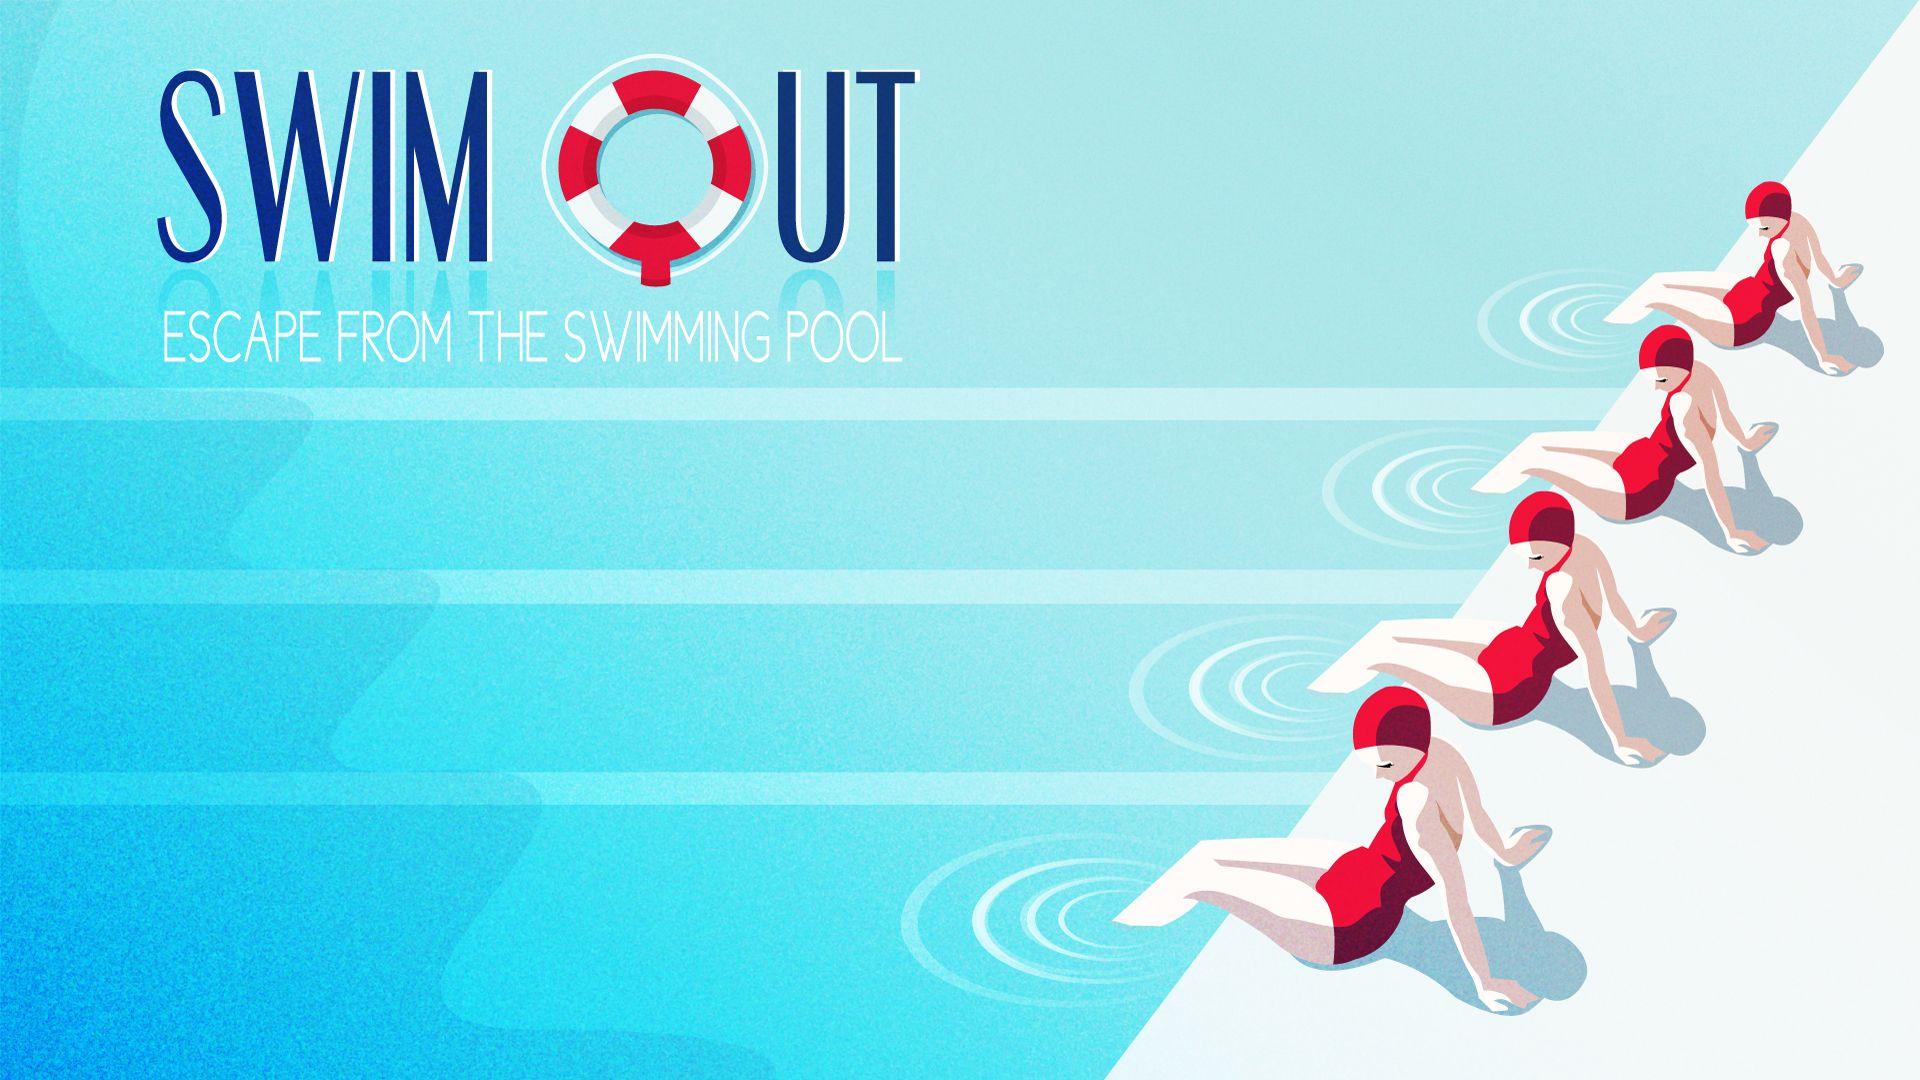
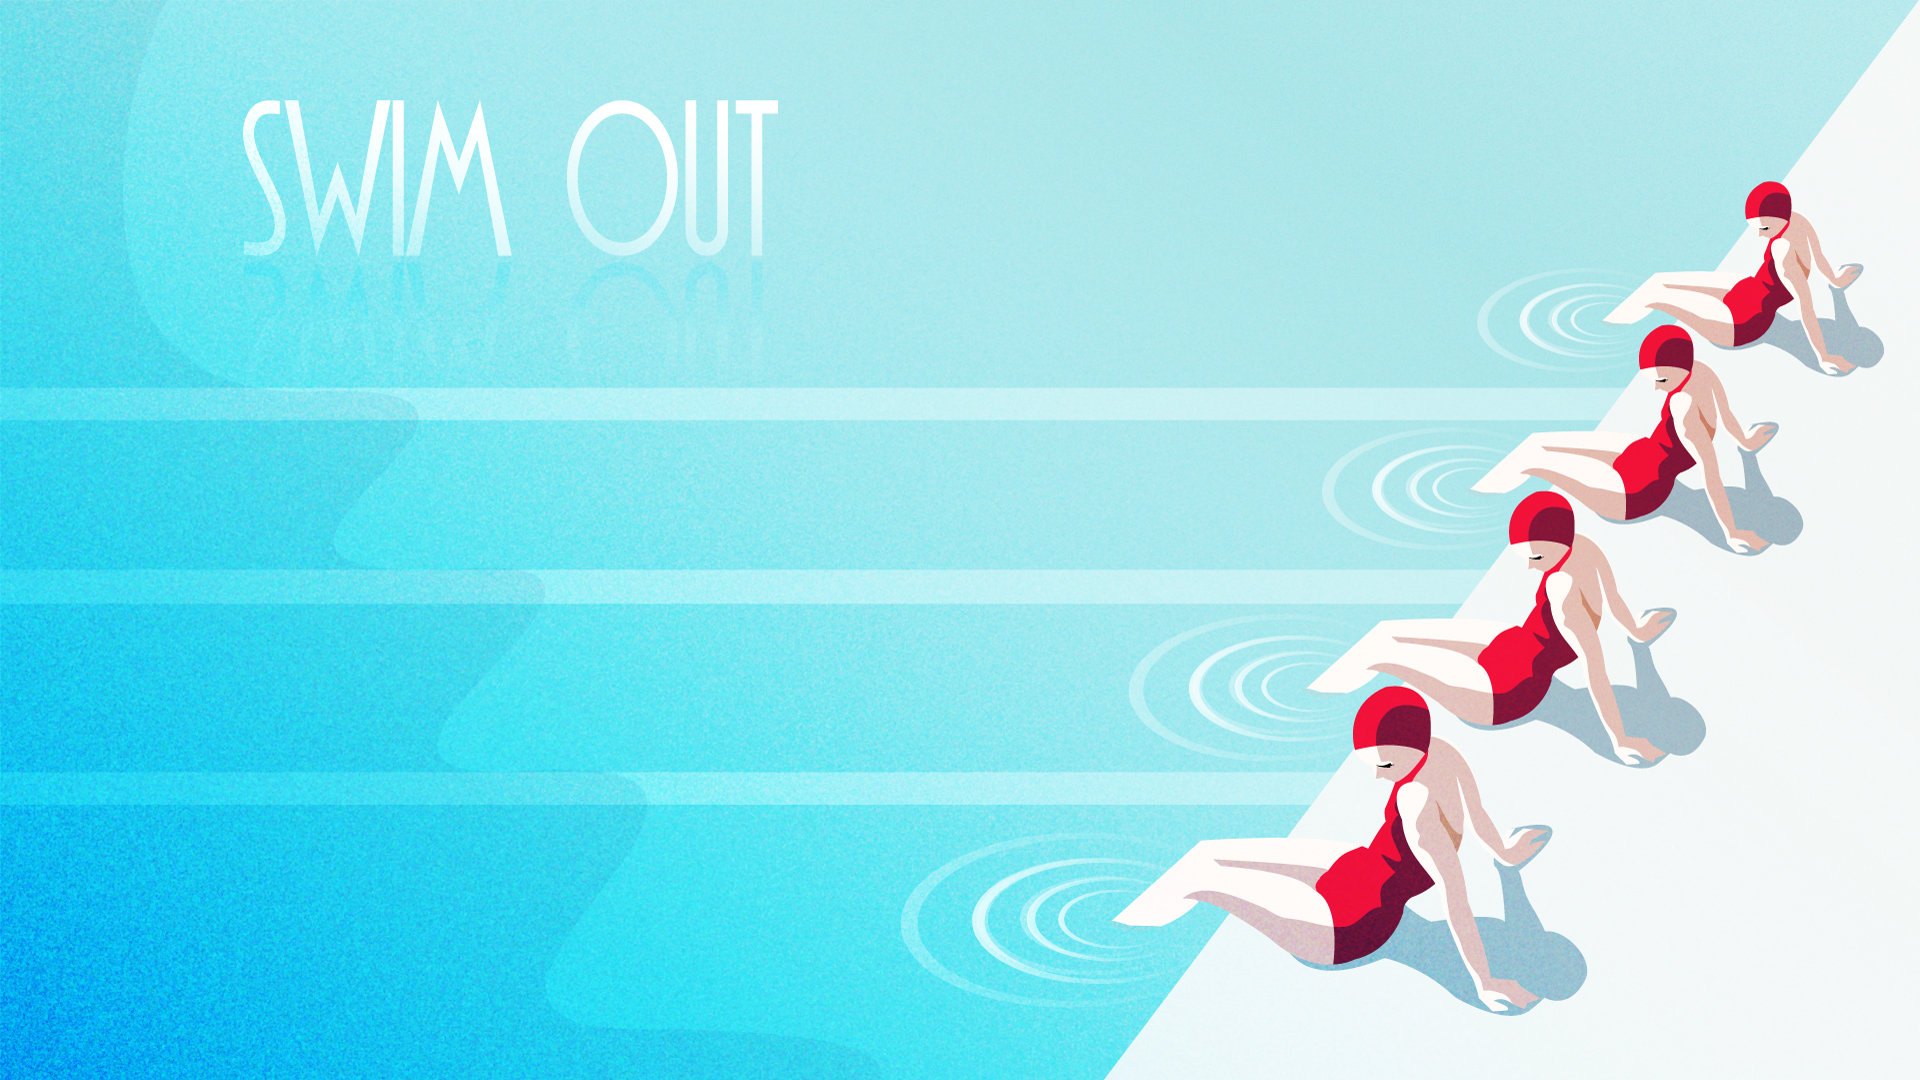
z

Changed region(s): [[0.0625, 0.0306, 0.5, 0.3361], [0.2188, 0.5194, 0.2812, 0.55]]

diff --git a/index.html b/index.html
@@ -63,8 +63,6 @@
     <!-- Header -->
     <header id="top" class="header">
         <div class="text-vertical-center">
-            <!-- <h1>Swim Out</h1> -->
-            <!-- <br> -->
 			"I am delighted by how unfamiliar a swimming experience this is to me" - 
 			<a href="https://www.rockpapershotgun.com/2017/04/05/swim-out-puzzle-game-demo">Rock, Paper, Shotgun</a>
 			<br /><br />
@@ -73,7 +71,6 @@
 			(FR) "Prenez 2 minutes pour voter pour ce jeu, ça va être le jeu de l’été 2017 !" - <a href="http://www.graal.fr/2017/04/01/swim-out/">graal.fr</a>
 			<br /><br /><br />
             <a href="greenlight/index.html" class="btn btn-lg btn-light">Help us to get on Steam,<br />vote for Swim Out on Greenlight</a><br /><br /><br />
-            <!-- <a href="#about" class="btn btn-dark btn-lg">More Info</a> -->
 			<a href="http://eepurl.com/cG4Rcz" target="_blank" class="btn btn-lg btn-light">Get notified about release date</a>
         </div>
     </header>
@@ -83,7 +80,7 @@
             <div class="row">
                 <div class="col-lg-12 text-center">
                     <h2>Get out of the pool without touching any swimmers !</h2>
-                    <p class="lead">Swim Out is a strategic, turn-by-turn puzzle game where you control a swimmer who wants to get out of a pool, a river or the sea.</p>
+                    <p class="lead">Swim Out is a strategic, turn-by-turn puzzle game with smart and minimalistic design bathed in a bright and peaceful atmosphere.</p>
                     <p class="lead">Available in summer 2017 on Windows, Mac, Linux and Mobile</p>
 					<p class="lead"><a href="http://www.indiedb.com/games/swim-out/downloads">Play the Demo</a> on Windows, Mac or Linux</p>
                 </div>
@@ -174,8 +171,8 @@
     <!-- Callout -->
     <!-- <aside class="callout"> -->
         <!-- <div class="text-vertical-center"> -->
-            <!-- <h2>Help us to get Swim Out on Steam</h2> -->
-            <!-- <a href="greenlight/index.html" class="btn btn-lg btn-light">Vote on Steam Greenlight</a> -->
+            <!-- <h2>zzz</h2> -->
+            <!-- <a href="z.html" class="btn btn-lg btn-light">z</a> -->
         <!-- </div> -->
     <!-- </aside> -->
 
